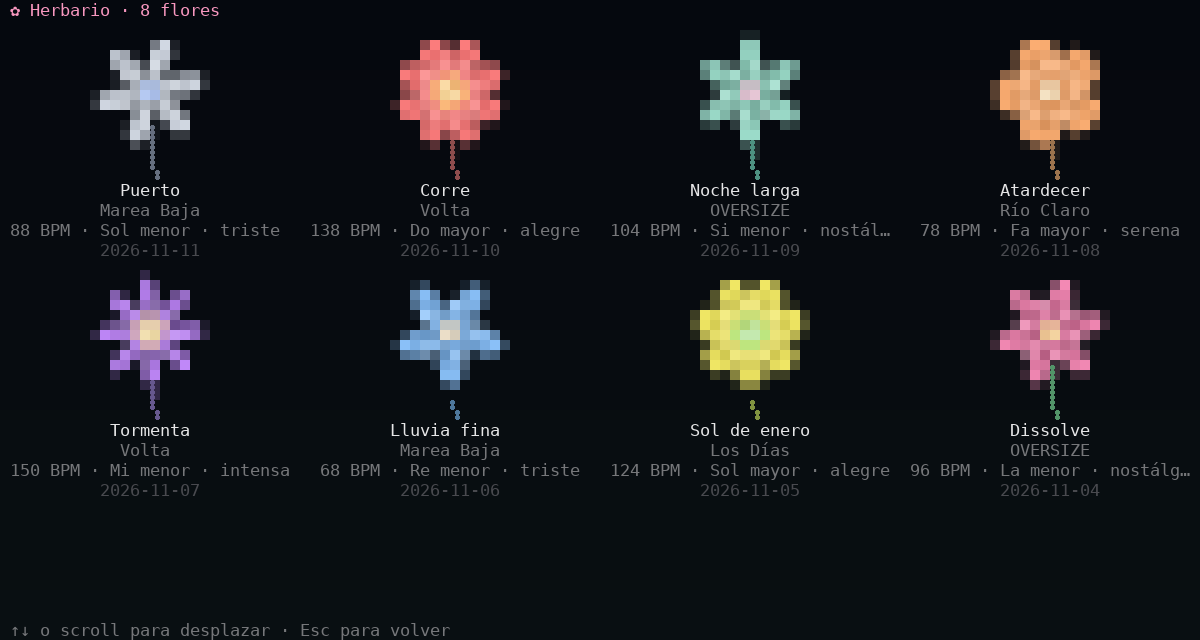
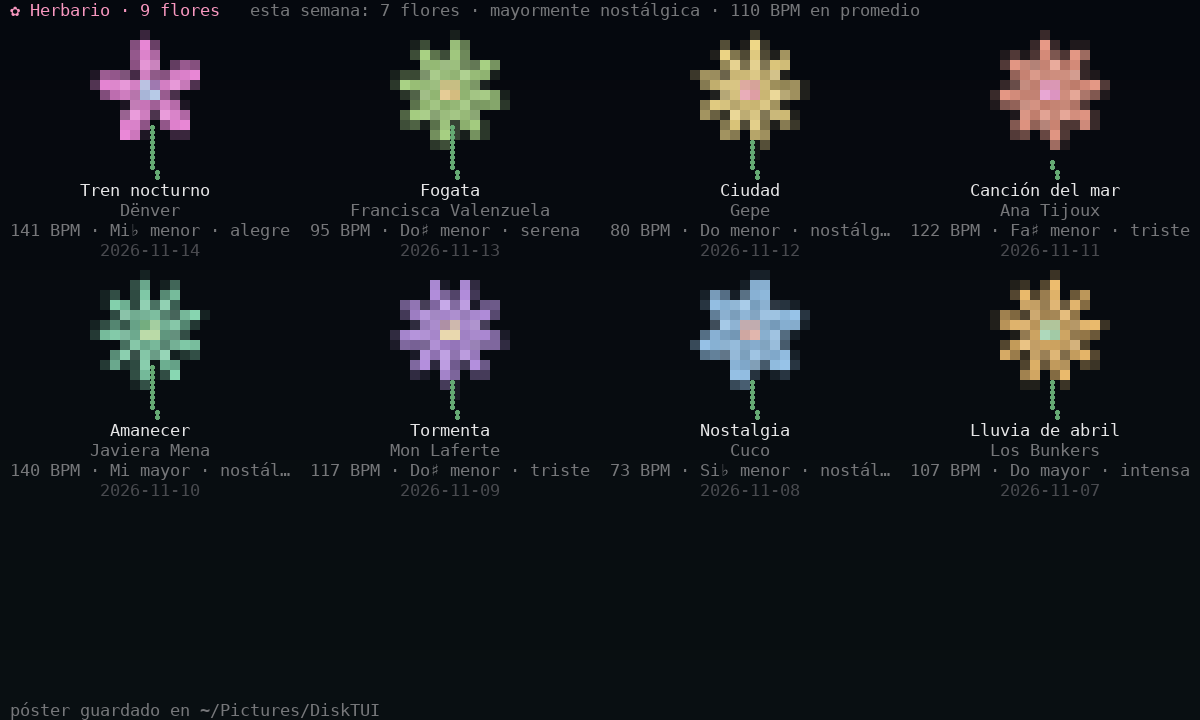
README: escenas nuevas, ánimo por sección, drop, compartir y espera
- Documenta tren nocturno y fondo del mar, el ánimo dentro de la canción, el
  momento del drop, las transiciones, la pantalla de espera, las flechas, el
  póster, el resumen semanal y el GIF vertical.
- Imágenes nuevas: tren, fondo del mar, secciones y póster; herbario
  actualizado con el resumen de la semana.

Claude-Session: https://claude.ai/code/session_01TKJWrPhQuz6HQW6WVQ9aqQ

diff --git a/README.md b/README.md
@@ -24,7 +24,7 @@ o nacer un sistema solar, con los colores de la carátula del disco.
 ## Qué hace
 
 - **La escena la elige la canción** (modo automático), o la fijas tú.
-- **Cinco escenas**, que cambias en vivo con la tecla `e`:
+- **Siete escenas**, que cambias en vivo con la tecla `e`:
   - 🌱 **Jardín.** Un brote sale de la tierra, crece como enredadera y florece. Dos flores
     más chicas lo acompañan. Alrededor: aurora, luna, cerros, flores silvestres,
     luciérnagas y mariposas.
@@ -36,12 +36,19 @@ o nacer un sistema solar, con los colores de la carátula del disco.
     siguen la música y los clímax lanzan fuegos artificiales.
   - 🔥 **Fogata.** Un claro del bosque con un fuego que arde al ritmo de la canción y
     queda en brasas al final.
+  - 🚆 **Tren nocturno.** El paisaje pasa por la ventana; un poste cruza en cada pulso y
+    el tren frena en una estación al final.
+  - 🪼 **Fondo del mar.** Medusas que se impulsan con cada bombo, burbujas con los agudos
+    y bioluminiscencia en los clímax.
 - **Reacciona a tres bandas**: graves, medios y agudos, más bombos y platillos detectados.
 - **Entiende el ánimo de la canción** y arma el clima según eso: sol si es alegre,
   atardecer si es serena, noche con luna si es nostálgica, lluvia si es triste, tormenta
-  si es intensa.
+  si es intensa. **Y cambia dentro de la canción**: el verso calma, el coro agita.
 - **Sigue el pulso**: estima el tempo y predice cada golpe, así la escena se mece al compás.
 - **Entiende los clímax**: sabe cuándo entra el coro o cae el drop, y la escena estalla.
+  En modo archivo, la escena contiene la respiración medio segundo antes.
+- **Transiciones suaves**: al cambiar de canción o de escena, una se funde en la otra.
+- **Pantalla de espera**: sin música por un rato, una animación tranquila.
 - **Una flor única por canción**, guardada en tu **herbario** cuando la escuchas entera.
 - **Colores de la carátula**: lee el arte del disco y arma la paleta con él.
 - **Barra de reproducción con la forma de la canción**: ves de antemano dónde vienen los
@@ -60,6 +67,9 @@ o nacer un sistema solar, con los colores de la carátula del disco.
 <img src="docs/ciudad.png" alt="Escena ciudad" width="49%">
 <br><br>
 <img src="docs/fogata.png" alt="Escena fogata" width="49%">
+<img src="docs/tren.png" alt="Escena tren nocturno" width="49%">
+<br><br>
+<img src="docs/fondo.png" alt="Escena fondo del mar" width="49%">
 <br><br>
 <img src="docs/climas.png" alt="El mismo jardín bajo cuatro ánimos: alegre, serena, triste e intensa" width="99%">
 <br>
@@ -136,8 +146,10 @@ También se puede saltar el menú desde la línea de comandos:
 
 | Tecla | Acción |
 | --- | --- |
-| `e` | Cambiar de escena: automática, jardín, sistema solar, océano, ciudad, fogata |
+| `e` | Cambiar de escena: automática, jardín, sistema solar, océano, ciudad, fogata, tren, fondo del mar |
+| `←` / `→` | Retroceder / adelantar 10 segundos (archivo, Spotify, Apple Music) |
 | `g` | Grabar un GIF de 8 segundos en `~/Pictures/DiskTUI` (`g` otra vez lo corta antes) |
+| `v` | Grabar un GIF vertical (9:16) con carátula y título, para historias |
 | `c` | Mostrar u ocultar la carátula |
 | `d` | Panel de detalles: qué entendió de la canción, la fuente de audio y los avisos completos. Con el panel abierto, `1`–`5` corrigen el ánimo y `0` lo devuelve a automático |
 | `n` / `p` | Canción siguiente / anterior (Spotify y Apple Music) |
@@ -248,6 +260,27 @@ muestra lo entendido: `96 BPM · La menor · nostálgica`.
 Es una heurística: acierta el carácter general de una canción, no sus matices. Si no te
 convence para un tema, `--animo` o la fila *Clima* del menú lo fijan a mano.
 
+### Dentro de la canción
+
+El ánimo es de la canción entera, pero el clima se mueve con cada parte. DiskTUI sigue la
+energía de la sección que suena (la intensidad suavizada en unos 5 segundos; un clímax
+entra de golpe) y lleva el clima hacia la versión más agitada o más calma del mismo ánimo:
+
+| Canción | Parte suave | Parte fuerte |
+| --- | --- | --- |
+| de valencia baja (triste, intensa) | lluvia calma | tormenta con viento |
+| de valencia alta (alegre, serena) | atardecer | sol pleno |
+
+<div align="center"><img src="docs/secciones.png" alt="Una canción triste y una alegre en su parte suave y en su parte fuerte" width="90%"></div>
+
+El panel de la tecla `d` muestra los dos: `triste (auto) · ahora intensa`.
+
+### Momento del drop
+
+En modo archivo, que conoce los clímax de antemano, la escena se frena y se apaga el último
+medio segundo antes de cada uno y lo suelta con un destello. En Spotify no hay aviso previo,
+así que queda solo el destello.
+
 ### 🔥 Fogata
 
 | Señal | Qué hace |
@@ -261,28 +294,53 @@ convence para un tema, `--animo` o la fila *Clima* del menú lo fijan a mano.
 | Ánimo | El mismo clima del jardín; el viento inclina las llamas |
 | Carátula | Color de las llamas y de la carpa |
 
+### 🚆 Tren nocturno
+
+| Señal | Qué hace |
+| --- | --- |
+| Avance de la canción | El tren sale al empezar y frena en una estación al final |
+| Tempo e intensidad | Velocidad del tren y del paisaje |
+| Pulso | Un poste del tendido cruza el centro de la ventana en cada golpe; sus aisladores brillan |
+| Medios | Luz de las casas a lo lejos |
+| **Clímax** | Pasa un pueblo iluminado |
+| Ánimo | El mismo clima del jardín, visto por la ventana |
+| Canción nueva | El vidrio se empaña y el viaje vuelve a empezar |
+
+### 🪼 Fondo del mar
+
+| Señal | Qué hace |
+| --- | --- |
+| Avance de la canción | Van apareciendo medusas, hasta seis |
+| Bombo | Las medusas se contraen y se impulsan hacia arriba |
+| Agudos y platillo | Burbujas |
+| Pulso y volumen | Vaivén de las algas |
+| **Clímax** | Todo se enciende con bioluminiscencia y cruza un cardumen |
+| Ánimo | De día entran rayos de luz; de noche solo brillan los animales; con tormenta, la superficie se agita |
+| Carátula | Color de las medusas |
+
 ### Escena automática
 
-Con la escena en *automática*, cada canción elige también dónde ocurre:
+Con la escena en *automática*, cada canción elige también dónde ocurre. Si un ánimo tiene
+dos escenas, cada canción se queda siempre con la misma:
 
 | Ánimo | Escena |
 | --- | --- |
 | alegre | 🌸 jardín al sol |
-| serena | 🔥 fogata al atardecer |
-| nostálgica | 🪐 sistema solar |
-| triste | ⛵ océano con lluvia |
+| serena | 🔥 fogata al atardecer o 🪼 fondo del mar |
+| nostálgica | 🪐 sistema solar o 🚆 tren nocturno |
+| triste | ⛵ océano con lluvia o 🚆 tren bajo la lluvia |
 | intensa | 🌆 ciudad con tormenta |
 
 La elección se hace una vez por canción, cuando el análisis ya es fiable: de inmediato en
-modo archivo, a los ~20 segundos en Spotify, con un fundido corto. La tecla `e` recorre
-automática → jardín → sistema solar → océano → ciudad → fogata.
+modo archivo, a los ~20 segundos en Spotify. Las escenas se funden una en otra. La tecla
+`e` recorre automática y las siete escenas.
 
 ### Cuando se equivoca
 
 La tecla `d` abre un panel con lo que DiskTUI midió: valencia, activación, tempo, tonalidad
 y la confianza de cada uno, más la fuente de audio y los avisos completos. Con el panel
-abierto, `1` a `5` fijan el ánimo de **esa canción** y `0` lo devuelve a automático. La corrección se recuerda para la próxima vez que
-suene.
+abierto, `1` a `5` fijan el ánimo de **esa canción** y `0` lo devuelve a automático. La
+corrección se recuerda para la próxima vez que suene.
 
 Las correcciones quedan en `~/.local/share/disktui/animos.tsv`, junto a lo que el análisis
 había medido. Ese archivo es la base para calibrar la heurística con música real.
@@ -299,8 +357,24 @@ Cuando escuchas al menos el 60% de una canción, su flor queda guardada. `disktu
 
 <div align="center"><img src="docs/herbario.png" alt="Herbario" width="80%"></div>
 
-La tecla `s` guarda la escena del momento como PNG en `~/Pictures/DiskTUI`, y `g` graba
-8 segundos como GIF en la misma carpeta.
+Arriba, un resumen de la semana: cuántas flores, el ánimo más escuchado y el BPM promedio.
+La tecla `p` guarda un **póster** PNG con todas las flores, su título, artista y fecha:
+
+<div align="center"><img src="docs/poster.png" alt="Póster del herbario" width="60%"></div>
+
+## Compartir
+
+Todo queda en `~/Pictures/DiskTUI`:
+
+| Tecla | Qué guarda |
+| --- | --- |
+| `s` | La escena del momento como PNG |
+| `g` | 8 segundos de la escena como GIF |
+| `v` | 8 segundos en vertical (9:16) con carátula, título y artista abajo, para historias |
+| `p` en el herbario | Póster con todas las flores |
+
+Si la canción termina o sales a mitad de una grabación, el GIF se guarda igual con lo
+grabado hasta ahí.
 
 ## Cómo detecta los clímax
 
@@ -429,7 +503,13 @@ flowchart LR
 | `src/ocean.rs` | Escena océano: mar, velero y faro |
 | `src/city.rs` | Escena ciudad: edificios, ventanas y fuegos artificiales |
 | `src/campfire.rs` | Escena fogata: fuego, chispas y pinos |
-| `src/stage.rs` | Las cinco escenas juntas: avanzan a la vez |
+| `src/train.rs` | Escena tren nocturno: paisaje, postes y estación |
+| `src/reef.rs` | Escena fondo del mar: medusas, burbujas y algas |
+| `src/moment.rs` | El momento del drop |
+| `src/idle.rs` | Pantalla de espera |
+| `src/poster.rs` | Póster del herbario y resumen de la semana |
+| `src/text.rs` | Texto dentro de imágenes |
+| `src/stage.rs` | Las siete escenas juntas: avanzan a la vez |
 | `src/tuning.rs` | Correcciones de ánimo por canción |
 | `src/herbarium.rs` | Herbario: guardado y vista de la colección |
 | `src/postcard.rs` | Postal PNG y grabación en GIF |
@@ -465,6 +545,5 @@ archivos de audio reales solo corren si defines `DISKTUI_TEST_MEDIA`; sin ella s
 ## Ideas
 
 - Más escenas: bosque nevado, desierto.
-- Póster con todo el herbario.
 - Binario precompilado en los releases, para instalar sin compilar.
-- Seek y listas de reproducción en modo archivo.
+- Listas de reproducción en modo archivo.
